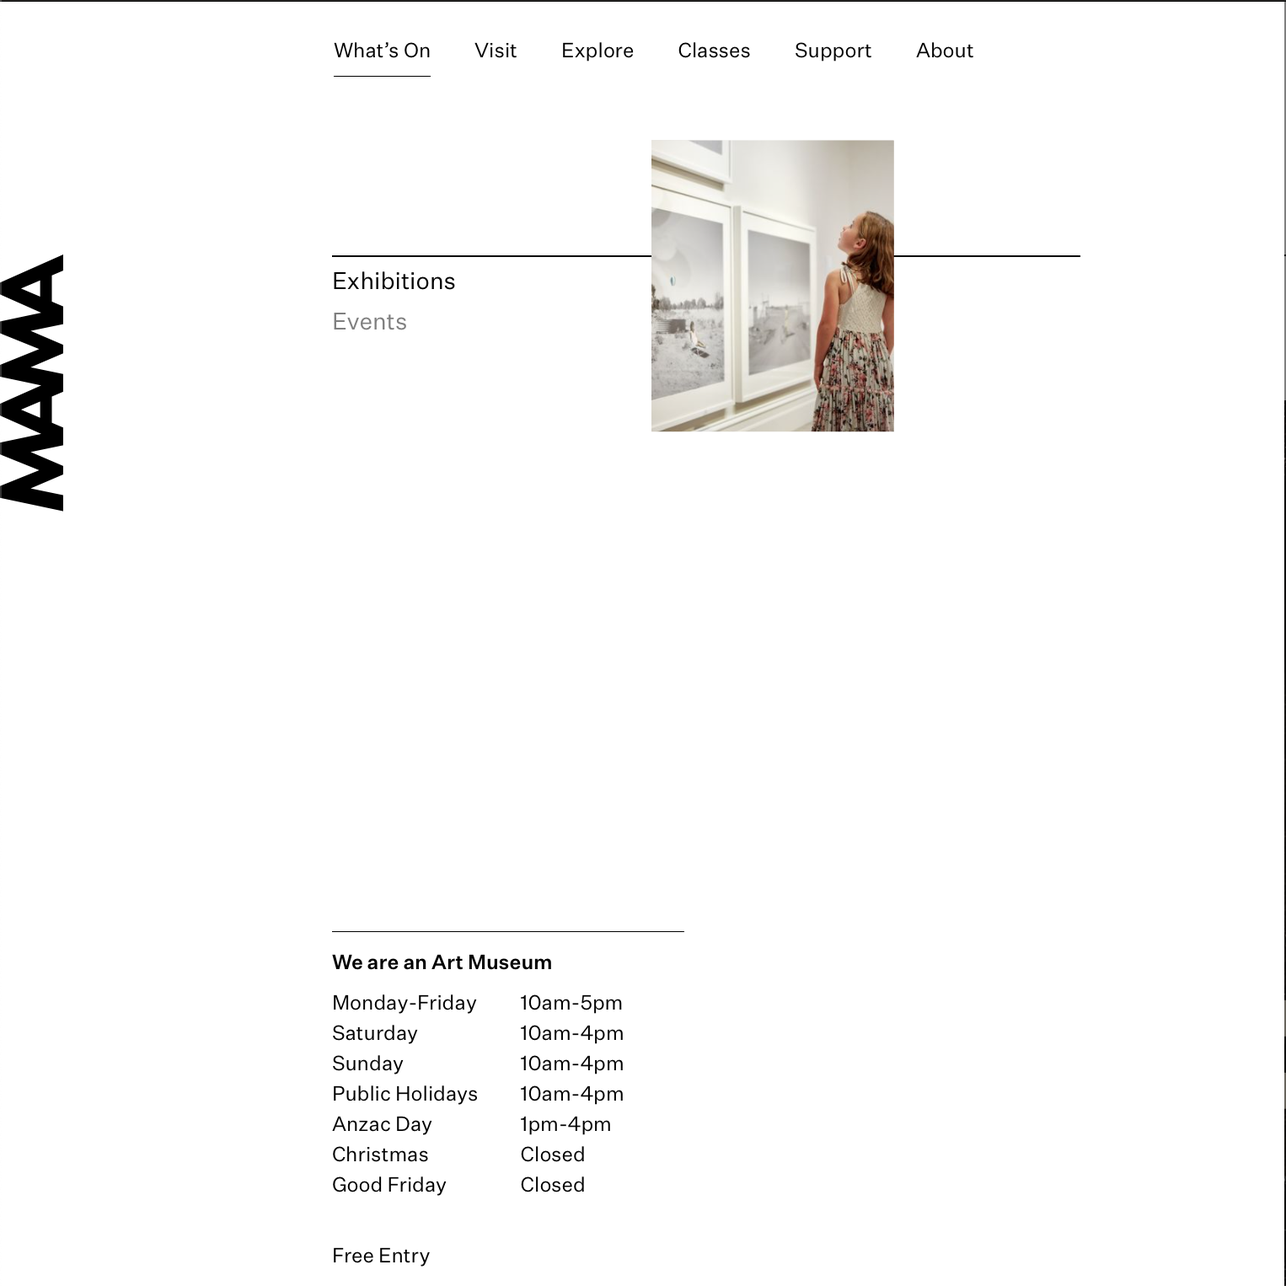
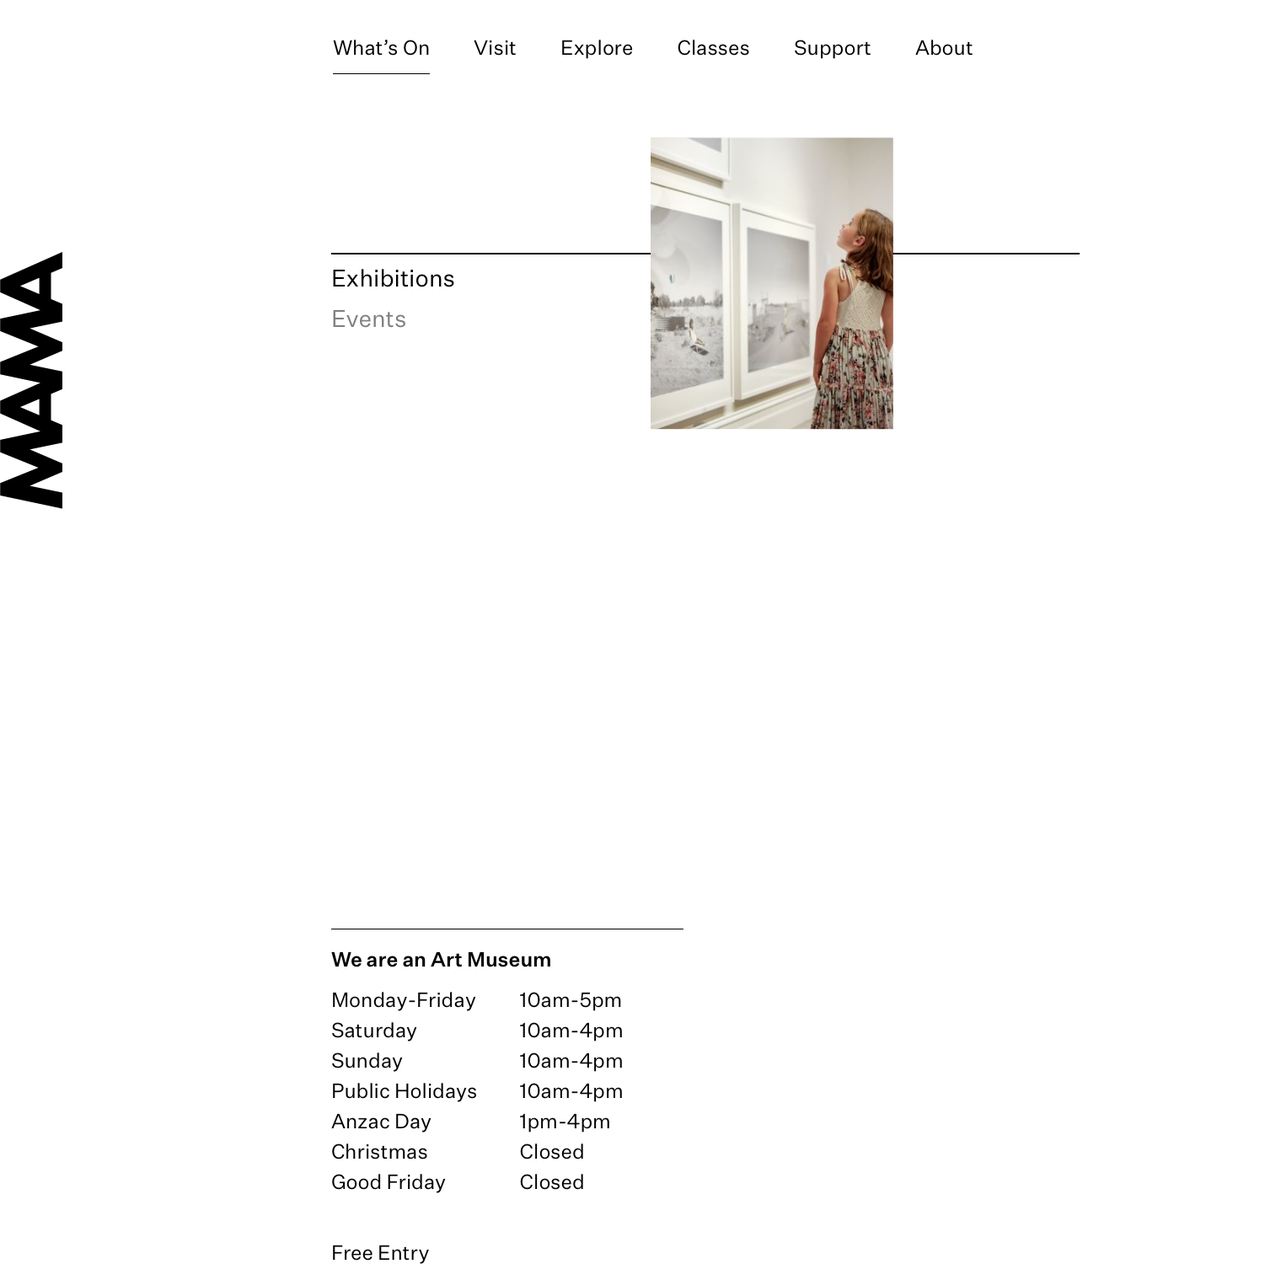
edit navigation

diff --git a/components/index.html b/components/index.html
@@ -323,7 +323,7 @@
                                              <li class="nav-list"><a class="nav-list-link" href="#!">Support</a></li>
                                              <li class="nav-list"><a class="nav-list-link" href="#!">About</a></li>
                                         </ul>
-                                        <div class="container-nav-top container-nav-top__search">
+                                        <div class="container-nav-top__search">
                                              <p class="nav-list"><a class="nav-list-link" href="#!" title="search"><i class="fa-solid fa-magnifying-glass"></i>  Search MAMA</a></p>
                                         </div><!--search menu wrapper-->
                                    </div><!--coding nav wrapper-->
@@ -346,43 +346,18 @@
                                    <div class="nav-slideout-contents-wrapper">                               
                                         <div id="nav-visit" class="nav_left_container"><!--nav slideout visit contents-->                                        
                                              <ul class="nav_left__contents-list">
-                                                  <li>
-                                                  <div class="slideout_img_container">
-                                                       <a class="slideout_link slideout_link--plan" href="https://www.mamalbury.com.au/plan-your-trip">
-                                                       Plan Your Trip
-                                                       <span class="slideout-hover-imgs slideout-hover-img__visit-plan">
-                                                       </span></a>
-                                                  <!-- <img class="slideout-hover-imgs slideout-hover-img__visit-plan"
-                                                            src="img/slideout__visit__plan-trip.jpg" 
-                                                            alt="museum indoor space and art">-->     
-                                                  </div><!--slideout_pop-img container-->
-                                                  </li>
-                                             
-                                                  
-                                                  <li><a class="slideout_link slideout_link--families-visit" href="https://www.mamalbury.com.au/kids-and-families">Kids &#38; Families</a>
-                                                  <!--<span class="slideout-hover">
-                                                            <img class="slideout-hover-imgs slideout-hover-img__visit-kids" src="img/slideout__visit__kids-family.jpg"
-                                                                 alt="kids are looking at art and interect with it"></span>-->
-                                                  </li>
-                                                  <li><a class="slideout_link slideout_link--shop" href="https://www.mamalbury.com.au/shop">Shop</a>
-                                                       <!--<span class="slideout-hover">
-                                                       <img class="slideout-hover-imgs slideout-hover-img__visit" src="img/slideout__visit__shop.jpg"
-                                                                 alt="items on display"></span>-->
-                                                  </li>
-                                                  <li><a class="slideout_link slideout_link--eat" href="https://www.mamalbury.com.au/eat">Eat</a>
-                                                       <!--<span class="slideout-hover">
-                                                       <img class="slideout-hover-imgs slideout-hover-img__visit" src="img/slideout__visit__eat.jpg"
-                                                                 alt="couple seat and enjoy their drink"></span>-->
-                                                  </li>
-                                                  <li><a class="slideout_link slideout_link--school-visit" href="https://www.mamalbury.com.au/school-visits">School Visits</a>
-                                                       <!--<span class="slideout-hover">
-                                                       <img class="slideout-hover-s slideout-hover-img__visit" src="img/slideout__visit__school.jpg"
-                                                                 alt="a girl pointing art"></span>-->
-                                                  </li>
-                                                  <li><a class="slideout_link slideout_link--venue-hire" href="https://www.mamalbury.com.au/venue-hire">Venue Hire</a>
-                                                       <!--<span class="slideout-hover">
-                                                       <img class="slideout-hover-imgs slideout-hover-img__visit" src="img/slideout__visit__venue-hire.jpg"
-                                                                 alt="people held their drink in museum indoor space"></span>-->
+                                                  <li><a class="slideout_link slideout_link--plan" href="https://www.mamalbury.com.au/plan-your-trip">
+                                                       Plan Your Trip</a></li>
+                                                  <li><a class="slideout_link slideout_link--families-visit" href="https://www.mamalbury.com.au/kids-and-families">
+                                                       Kids &#38; Families</a></li>
+                                                  <li><a class="slideout_link slideout_link--shop" href="https://www.mamalbury.com.au/shop">
+                                                       Shop</a></li>
+                                                  <li><a class="slideout_link slideout_link--eat" href="https://www.mamalbury.com.au/eat">
+                                                       Eat</a></li>
+                                                  <li><a class="slideout_link slideout_link--school-visit" href="https://www.mamalbury.com.au/school-visits">
+                                                       School Visits</a></li>
+                                                  <li><a class="slideout_link slideout_link--venue-hire" href="https://www.mamalbury.com.au/venue-hire">
+                                                       Venue Hire</a>
                                                   </li>
                                              </ul>                                        
                                         </div><!--Navigation left slideoutdiv-->
@@ -432,95 +407,65 @@
 
 
 
-                    <div class="components">
-                         <div class="colume-flex colume-flex__header">
+                    <div class="components component_full-width">
                          <h5 class="compoment-detaile-headings">| Header: Navigation | Side slideout | Search</h5>
                               <img class="screen_shot_imgs nav-top-header"
                                    src="img/dropdown-nav-list-img.png"
                                    alt="navigation slideout menu lists">
 
-                         <div class="colume-flex nav-slideout-wrapper"><!-- *important to remember* this is position: relative for opening hour-->
-                              <h5 class="compoment-detaile-headings">| Coding: Navigation | Side slideout | Search</h5> 
-                              <div class="">
+                         <h5 class="compoment-detaile-headings">| Coding: Navigation | Side slideout | Search</h5> 
+                              <div class="component_logo_continer">
+                                   <a href="index.html">                                                  
+                                   <img class="fixed-logo__components" src="img/mama_logo-white.png" alt="mama logo">
+                                   </a>
+                              </div><!--logo container-->
+                              <div class="component-container">
                                    <div class="wrapper_nav-top">
-                                        
-                                             <div class="component_logo_continer">
-                                                  <a href="index.html">                                                  
-                                                  <img class="fixed-logo__components" src="img/mama_logo-white.png" alt="mama logo">
-                                                  </a>
-                                             </div><!--logo container-->
+                                             <ul class="container-nav-top container-nav-top__list">
+                                                  <li class="nav-list">                                             
+                                                  <p class="nav-list-link"><span class="nav-list-top nav-list__whaton" onclick="openNav()">What&#39;s On</span></p></li>
 
-                                        <ul class="container-nav-top container-nav-top__list">
-                                             <li class="nav-list">
-                                                  <div id="mamaSidenav" class="sidenav">
-                                                  <a class="nav-list-link" href="#!"><span class="nav-list-top nav-list__whaton" onclick="openNav()">What&#39;s On</span></a>
-                                                  </div>
-                                             </li>
+                                                  <li class="nav-list">
+                                                  <p class="nav-list-link"><span class="nav-list-top nav-list__whaton" onclick="openNav()">Visit</span></p></li>
 
-                                             <li class="nav-list">
-                                                  <a class="nav-list-link" href="#!">Visit</a>
-                                             </li>
-                                             <li class="nav-list"><a class="nav-list-link" href="#!">Explore</a></li>
-                                             <li class="nav-list"><a class="nav-list-link" href="#!">Classes</a></li>
-                                             <li class="nav-list"><a class="nav-list-link" href="#!">Support</a></li>
-                                             <li class="nav-list"><a class="nav-list-link" href="#!">About</a></li>
-                                        </ul>
-                                        <div class="container-nav-top container-nav-top__search">
-                                             <p class="nav-list"><a class="nav-list-link" href="#!" title="search"><i class="fa-solid fa-magnifying-glass"></i>  Search MAMA</a></p>
-                                        </div><!--search menu wrapper-->
+                                                  <li class="nav-list">
+                                                  <p class="nav-list-link"><span class="nav-list-top nav-list__explore" onclick="openNav()">Explore</span></p></li>
 
-                                        <div class="close">
-                                             <a class="link-button link-button__close"  href="#!"><i class="fa-solid fa-xmark"></i> Close</a>
-                                        <!--<a href="javascript:void(0)" class="closebtn" onclick="closeNav()">**-->
-                                   </div><!--wrapper_nav-top-->
-                              </div><!--?-->
-                         </div><!--header nav col flex-->
-
-                                   <div class="nav-slideout nav-slideout__visit-us">
-                                        <div id="visit" class="nav_left_container"><!--nav slideout visit contents-->                                        
-                                             <ul class="nav_left__contents-list">
-                                                  <li>
-                                                  <div class="slideout_img_container">
-                                                       <a class="slideout_link slideout_link--plan" href="https://www.mamalbury.com.au/plan-your-trip">
-                                                       Plan Your Trip
-                                                       <span class="slideout-hover-imgs slideout-hover-img__visit-plan">
-                                                       </span></a>
-                                                  <!-- <img class="slideout-hover-imgs slideout-hover-img__visit-plan"
-                                                            src="img/slideout__visit__plan-trip.jpg" 
-                                                            alt="museum indoor space and art">-->     
-                                                  </div><!--slideout_pop-img container-->
-                                                  </li>
-                                             
+                                                  <li class="nav-list">                                             
+                                                  <p class="nav-list-link"><span class="nav-list-top nav-list__classes" onclick="openNav()">Classes</span></p></li>
                                                   
-                                                  <li><a class="slideout_link slideout_link--families-visit" href="https://www.mamalbury.com.au/kids-and-families">Kids &#38; Families</a>
-                                                  <!--<span class="slideout-hover">
-                                                            <img class="slideout-hover-imgs slideout-hover-img__visit-kids" src="img/slideout__visit__kids-family.jpg"
-                                                                 alt="kids are looking at art and interect with it"></span>-->
-                                                  </li>
-                                                  <li><a class="slideout_link slideout_link--shop" href="https://www.mamalbury.com.au/shop">Shop</a>
-                                                       <!--<span class="slideout-hover">
-                                                       <img class="slideout-hover-imgs slideout-hover-img__visit" src="img/slideout__visit__shop.jpg"
-                                                                 alt="items on display"></span>-->
-                                                  </li>
-                                                  <li><a class="slideout_link slideout_link--eat" href="https://www.mamalbury.com.au/eat">Eat</a>
-                                                       <!--<span class="slideout-hover">
-                                                       <img class="slideout-hover-imgs slideout-hover-img__visit" src="img/slideout__visit__eat.jpg"
-                                                                 alt="couple seat and enjoy their drink"></span>-->
-                                                  </li>
-                                                  <li><a class="slideout_link slideout_link--school-visit" href="https://www.mamalbury.com.au/school-visits">School Visits</a>
-                                                       <!--<span class="slideout-hover">
-                                                       <img class="slideout-hover-s slideout-hover-img__visit" src="img/slideout__visit__school.jpg"
-                                                                 alt="a girl pointing art"></span>-->
-                                                  </li>
-                                                  <li><a class="slideout_link slideout_link--venue-hire" href="https://www.mamalbury.com.au/venue-hire">Venue Hire</a>
-                                                       <!--<span class="slideout-hover">
-                                                       <img class="slideout-hover-imgs slideout-hover-img__visit" src="img/slideout__visit__venue-hire.jpg"
-                                                                 alt="people held their drink in museum indoor space"></span>-->
-                                                  </li>
+                                                  <li class="nav-list">                                             
+                                                  <p class="nav-list-link"><span class="nav-list-top nav-list__classes" onclick="openNav()">Support</span></p></li>
+
+                                                  <li class="nav-list">                                             
+                                                  <p class="nav-list-link"><span class="nav-list-top nav-list__classes" onclick="openNav()">About</span></p></li>
                                              </ul>
-                                             
+
+                                             <div class="container-nav-top__search">
+                                                  <p class="nav-list"><a class="nav-list-link" href="#!" title="search"><i class="fa-solid fa-magnifying-glass"></i>  Search MAMA</a></p>
+                                             </div><!--search menu wrapper-->
+                                   </div><!--wrapper_nav-top-->
+
+
+                                        <div class="nav_left_container"><!--nav slideout visit contents-->                                        
+                                             <ul class="nav_left__contents-list">
+                                                  <li><a class="slideout_link slideout_link--plan" href="https://www.mamalbury.com.au/plan-your-trip">
+                                                       Plan Your Trip</a></li>
+                                                  <li><a class="slideout_link slideout_link--families-visit" href="https://www.mamalbury.com.au/kids-and-families">
+                                                       Kids &#38; Families</a></li>
+                                                  <li><a class="slideout_link slideout_link--shop" href="https://www.mamalbury.com.au/shop">
+                                                       Shop</a></li>
+                                                  <li><a class="slideout_link slideout_link--eat" href="https://www.mamalbury.com.au/eat">
+                                                       Eat</a></li>
+                                                  <li><a class="slideout_link slideout_link--school-visit" href="https://www.mamalbury.com.au/school-visits">
+                                                       School Visits</a></li>
+                                                  <li><a class="slideout_link slideout_link--venue-hire" href="https://www.mamalbury.com.au/venue-hire">
+                                                       Venue Hire</a>
+                                                  </li>
+                                             </ul>                                        
                                         </div><!--Navigation left slideoutdiv-->
-                                        <div  class="slideout_nav-top__opening">
+          
+                                        <div class="slideout_nav-top__opening">
                                              <table>
                                                   <caption class="slideout_opening-title">We are an Art Museum</caption>
                                                   <tr>
@@ -556,11 +501,18 @@
                                                        <td></td>
                                                   </tr>
                                              </table>
-                                        </div><!--Coding: opening hours table-->
-                                   </div><!--nav-slideout visit-us-->
-                              </div><!--coding nav wrapper-->
+                                        </div><!--table-->
+                                   </div><!--component-container-->
+
+                                        <div class="close">
+                                        <a class="link-button link-button__close"  href="#!"><i class="fa-solid fa-xmark"></i> Close</a>
+                                        <!--<a href="javascript:void(0)" class="closebtn" onclick="closeNav()">**-->
+                                        </div><!--close-->
+                                
+
                               
-                         </div><!--components: nav warpper-->
+                            </div><!--sildeout test-->
+                    </div><!--components: nav warpper-->
 
 
 

diff --git a/css/main.css b/css/main.css
@@ -207,6 +207,8 @@ cursor coding
   font-weight: 400;
   line-height: 1.35;
 }
+/* cursor set up-------------
+
 div.cursors div.circle {
   position: absolute;
   top: 0px;
@@ -239,6 +241,7 @@ div.cursors div.circle span.explore {
 .circle-explore__brown {
   background-color: var(--brown);
 }
+----------------------------------------*/
 .components-hero {
   width: 100%;
   padding: 0;
@@ -288,7 +291,8 @@ span.typo {
   justify-content: space-between;
   align-items: center;
   background-color: var(--white);
-  padding: 1.5rem 0 1.5rem;
+  padding: 1.5rem 0;
+  padding-left: 15%;
   margin: 0;
 }
 .wrapper_nav-top>* {
@@ -297,7 +301,9 @@ span.typo {
 }
 .container-nav-top__search>* {
   padding: 0;
-  margin:0;
+  margin: 0;
+  text-decoration: none;
+  list-style: none;
 }
 .container-nav-top {
   text-decoration: none;
@@ -377,6 +383,16 @@ span.typo {
   font-size: 1rem;
   font-weight: 300;
   line-height: 1.5;
+  border-top: 1.2px solid var(--black);
+  padding-top: 0.3rem;
+}
+.component-container {
+  display: flex;
+  flex-direction: column;
+}
+.container-nav-top__list {
+  padding-bottom: 10rem;
+  margin: 0;
 }
 /*
 slideout Navigation table
@@ -411,15 +427,30 @@ slideout Navigation table
 .slideout_opening-title {
   text-align: left;
 }
-/* slideout contents and hover/hover img setup <<<?   -----------^.-.^------------ */
+/* slideout contents and hover/hover img setup <<<?   -----------^.-.^------------ 
 @media screen and (max-height: 450px) {
   .sidenav {padding-top: 15px;}
   .sidenav a {font-size: 18px;}
 }
-.container-nav-top__list {
-  width: 100%;
-  margin: 20%;
+
+.sidenav {
+  height: 100%;
+  width: 0;
+  position: fixed;
+  z-index: 1;
+  top: 0;
+  left: 0;
+  background-color: var(--white);
+  overflow-x: hidden;
+  transition: 0.5s;
+  padding-top: 3rem;
 }
+.sidenav a {
+  padding: 8rem 9rem 2rem 3rem;
+  display: block;
+  transition: 0.3s;
+}
+*/
 .slideout_link {
   list-style: none;
   text-decoration: none;
@@ -427,13 +458,13 @@ slideout Navigation table
   font-size: 1rem;
   line-height: 1.5;
 }
-
-/* need to fix this effects /* slide out image pop up with hover
 .slideout_link:hover {
   color: var(-black);
   font-weight: bolder;
   transition: transform 200ms ease-in;
 }
+/* need to fix this effects /* slide out image pop up with hover
+
 .slideout_img_container {
   position: relative;
 }
@@ -522,6 +553,9 @@ color: var(--dark-gray);
 .component-nav-list {
 font-weight: 400;
 color: var(--dark-gray);
+}
+.component_full-width {
+  width: 112%;
 }
 /* mian starts here --------*_*------------------*/
 .component_logo_continer {
@@ -729,5 +763,5 @@ _____screen shot images adjustments only_____
   width: 120%;
 }
 .nav-top-header {
-  width: 108%;
+  width: 98%;
 }

diff --git a/java/main.js b/java/main.js
@@ -40,11 +40,11 @@ images.forEach(image => {
 /* this is Top Nav */
 
 function openNav() {
-  document.getElementById("mamaSidenav").style.width = "250px";
+  document.getElementById("mama-sidenav").style.width = "250px";
 }
 
 function closeNav() {
-  document.getElementById("mamaSidenav").style.width = "0";
+  document.getElementById("mama-sidenav").style.width = "0";
 }
 
 
